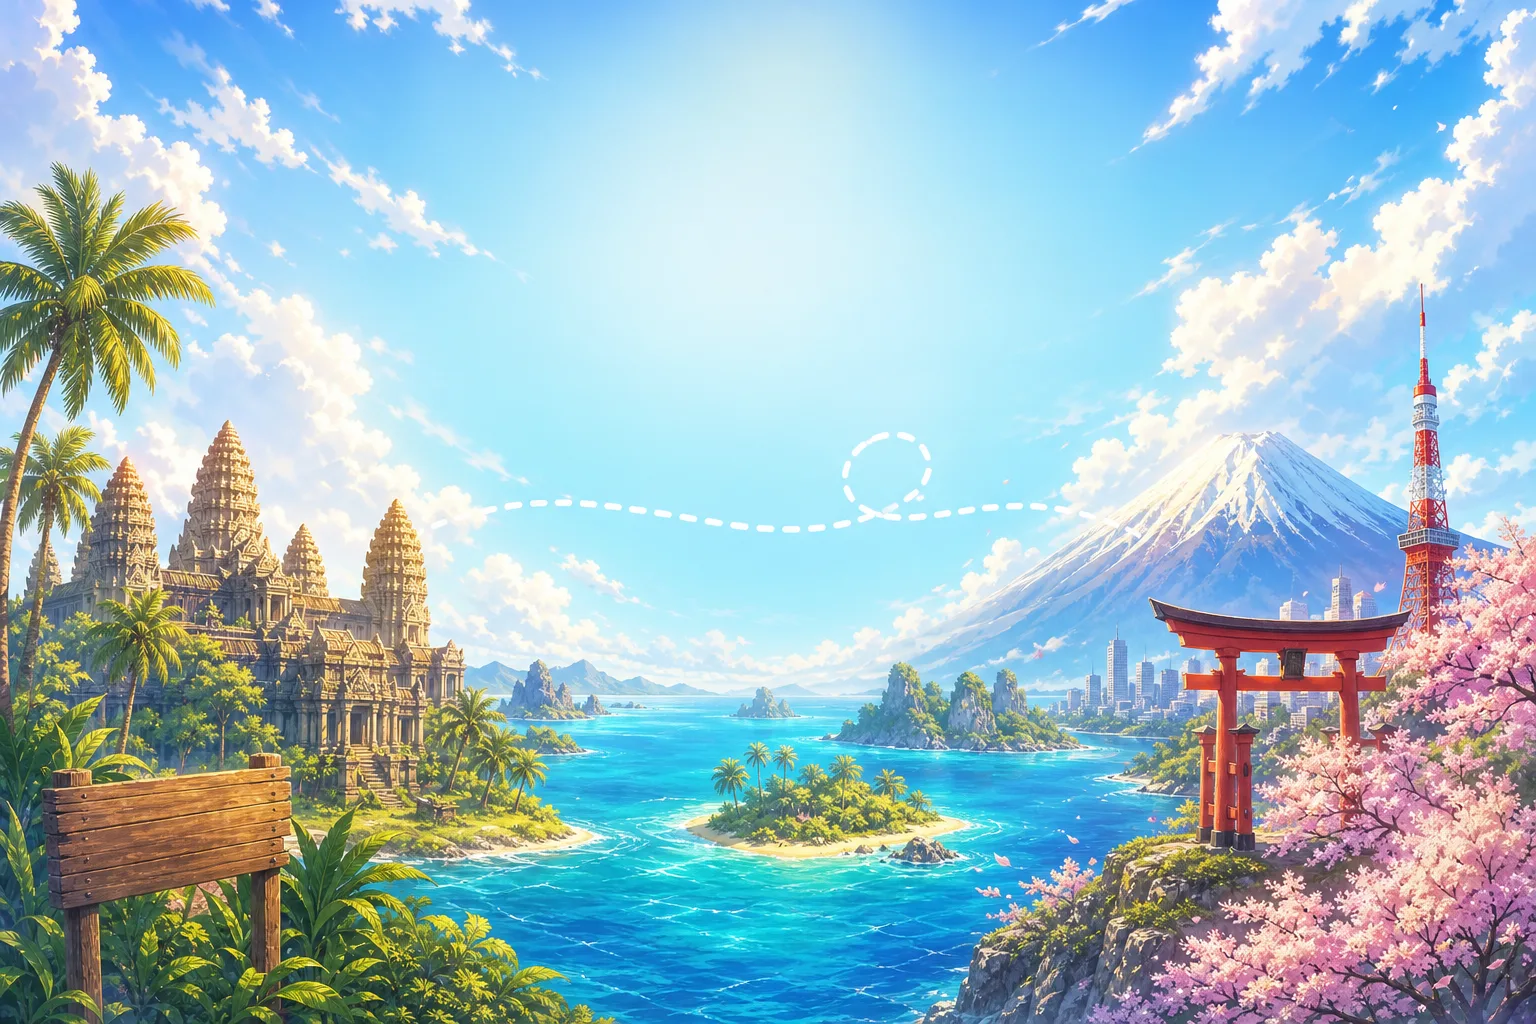
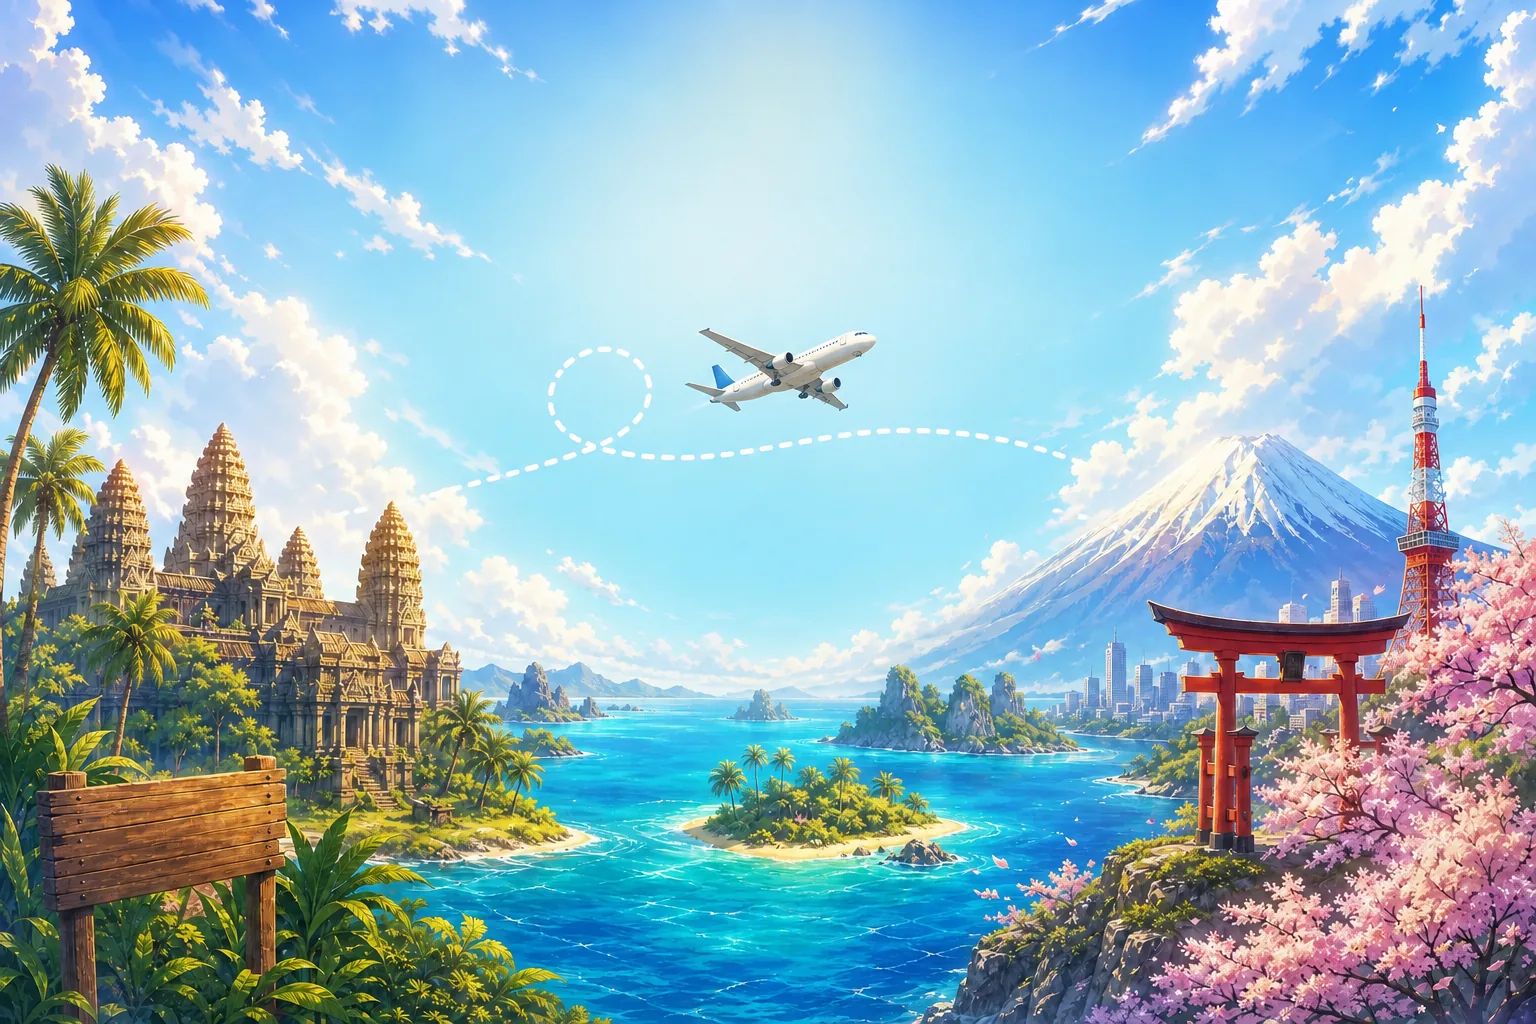
perf: タイトル画面の外部往復をなくす（30人同時で落ちていた）
ログイン必須にした際、**全員が必ず通るタイトル画面**を毎回サーバで描くようにし、
1表示につき Supabase へ3往復していた（ミドルウェアの getUser / ページの getUser /
profiles 照会）。実測で、ログイン状態のタイトルに 60並列 → **60件すべて 503**
（Cloudflare Error 1102 Worker exceeded resource limits）、30並列でも中央値3.7秒。
まもなく30人が同時に使うので直す。

- 認証クッキーが無ければ未ログインは確実。**往復ゼロ**で判定して返す。
  未ログインの表示と締め出しに外部通信を1回も使わなくなる。
- ミドルウェアが確認した結果をヘッダでページへ渡し、**二度目の getUser をやめる**。
  更新されたセッションクッキーは、通す応答にも返す応答にも必ず載せ直す
  （載せ忘れると毎回ログインし直しになる）。
- 「つづきから」の判定は印のクッキーで済ませ、**印が無いときだけ1回**照会する。
  印はマップが読めた時点で付く（診断もなまえも そろっていることを確認した後）。
  別の端末で開いても初回の1回で正しく決まる。

fix: TOPのキーアートを差し替え版（飛行機入り）に戻す

差し替え版がメインの作業フォルダに**未コミットのまま**残っていて、
mainから配るSTG・本番は古い版を出していた。

closes #17
closes #18

diff --git a/src/app/page.tsx b/src/app/page.tsx
@@ -1,4 +1,6 @@
+import { cookies, headers } from "next/headers";
 import { TitleScreen } from "@/components/title-screen";
+import { AUTH_STATE_HEADER, READY_COOKIE } from "@/lib/auth-cookie";
 import { isSupabaseConfigured } from "@/lib/env";
 import { hasLearnerNames } from "@/lib/name";
 import { isDiagnosisComplete } from "@/lib/profile";
@@ -8,7 +10,11 @@ import { createClient } from "@/lib/supabase/server";
  * 最初の画面。**ログインしてはじめて中に入れる**（願い #13）。
  *
  * ログインの画面を別に持たず、タイトル画面のボタンをログインにする。
- * セッションを見るのでキャッシュせず、毎回いまの状態で描く。
+ *
+ * ここは**全員が必ず通る画面**なので、外部への往復を極力しない（願い #17）。
+ *  - ログインずみかは、ミドルウェアが確認した結果をヘッダで受け取る（getUser を二度打たない）
+ *  - 「つづきから」を出すかは、印のクッキーがあればそれで決める。無いときだけ1回だけ照会する
+ *    （照会結果の印はマップ側で付ける。別の端末でも初回の1回で正しく決まる）
  */
 export default async function Home({
   searchParams,
@@ -16,31 +22,30 @@ export default async function Home({
   searchParams: Promise<Record<string, string | string[] | undefined>>;
 }) {
   const params = await searchParams;
-  const supabase = await createClient();
-  const user = supabase ? (await supabase.auth.getUser()).data.user : null;
+  const [headerList, cookieStore] = await Promise.all([headers(), cookies()]);
+  const loggedIn = headerList.get(AUTH_STATE_HEADER) === "1";
 
-  /**
-   * 「つづきから」を出してよいか。**DBを見て決める**。
-   *
-   * 以前はブラウザの localStorage だけで決めていたが、それはこの端末の記憶でしかない。
-   * 別の端末・別のブラウザで開くと、進んでいる人にも「ゲームを始める」が出て、
-   * 押すと診断へ送られる。診断が終わっていて なまえもそろっている人だけ、マップへ通す。
-   */
-  let canContinue = false;
-  if (supabase && user) {
-    const { data: profile } = await supabase
-      .from("profiles")
-      .select("answers, family_name, given_name")
-      .eq("id", user.id)
-      .maybeSingle();
-    canContinue = Boolean(
-      profile &&
-      isDiagnosisComplete(profile.answers) &&
-      hasLearnerNames({
-        familyName: profile.family_name ?? "",
-        givenName: profile.given_name ?? "",
-      }),
-    );
+  let canContinue = loggedIn && cookieStore.get(READY_COOKIE)?.value === "1";
+
+  // 印が無いログイン者だけ、1回だけ調べる（新しい端末で開いた初回など）。
+  if (loggedIn && !canContinue) {
+    const supabase = await createClient();
+    const user = supabase ? (await supabase.auth.getUser()).data.user : null;
+    if (supabase && user) {
+      const { data: profile } = await supabase
+        .from("profiles")
+        .select("answers, family_name, given_name")
+        .eq("id", user.id)
+        .maybeSingle();
+      canContinue = Boolean(
+        profile &&
+        isDiagnosisComplete(profile.answers) &&
+        hasLearnerNames({
+          familyName: profile.family_name ?? "",
+          givenName: profile.given_name ?? "",
+        }),
+      );
+    }
   }
 
   // ミドルウェアが弾いた行き先。外のURLへ飛ばされないよう、自分のサイトの道だけ受ける。
@@ -50,7 +55,7 @@ export default async function Home({
   return (
     <TitleScreen
       authReady={isSupabaseConfigured}
-      loggedIn={Boolean(user)}
+      loggedIn={loggedIn}
       canContinue={canContinue}
       hadAuthError={params.error === "auth"}
       next={next}

diff --git a/src/middleware.ts b/src/middleware.ts
@@ -1,5 +1,6 @@
 import { createServerClient } from "@supabase/ssr";
 import { NextResponse, type NextRequest } from "next/server";
+import { AUTH_STATE_HEADER, hasAuthCookie } from "@/lib/auth-cookie";
 import { getSupabasePublicConfig } from "@/lib/env";
 
 /**
@@ -20,6 +21,10 @@ function isOpenToVisitors(pathname: string): boolean {
  * あわせて OAuth の `?code=` を取りこぼさない。Supabase の Redirect URLs に
  * 未登録の宛先を渡すと Site URL（＝ルート）へ `?code=` 付きで戻されるため、
  * どのページに落ちてもコールバックへ回送する。
+ *
+ * **外部への往復は最小にする**（願い #17）。ログイン必須にした直後、1画面につき
+ * Supabase へ3往復していて、30人が同時に開くと Worker が資源上限に達した
+ * （実測: 60並列で全件 503 / Cloudflare Error 1102）。
  */
 export async function middleware(request: NextRequest) {
   const cfg = getSupabasePublicConfig();
@@ -36,7 +41,29 @@ export async function middleware(request: NextRequest) {
     return NextResponse.redirect(callback);
   }
 
-  let response = NextResponse.next({ request });
+  /** ログインの行き先へ返す（元の行き先を持たせる）。 */
+  function redirectToTitle() {
+    const title = request.nextUrl.clone();
+    title.pathname = "/";
+    title.search = "";
+    title.searchParams.set("next", pathname);
+    return NextResponse.redirect(title);
+  }
+
+  /** 認証結果をページへ渡す。全リクエストで必ず上書きするので、詐称した値は残らない。 */
+  function passThrough(loggedIn: boolean) {
+    const headers = new Headers(request.headers);
+    headers.set(AUTH_STATE_HEADER, loggedIn ? "1" : "0");
+    return NextResponse.next({ request: { headers } });
+  }
+
+  // クッキーが無ければ未ログインは確実。ここで決めれば外部通信は1回も要らない。
+  if (!hasAuthCookie(request.cookies.getAll())) {
+    return isOpenToVisitors(pathname) ? passThrough(false) : redirectToTitle();
+  }
+
+  // 更新されたセッションクッキー。どの応答にも必ず載せ直す（載せ忘れると毎回ログインし直しになる）。
+  let refreshed: { name: string; value: string; options?: Record<string, unknown> }[] = [];
 
   const supabase = createServerClient(cfg.url, cfg.anonKey, {
     cookies: {
@@ -47,10 +74,7 @@ export async function middleware(request: NextRequest) {
         for (const { name, value } of cookiesToSet) {
           request.cookies.set(name, value);
         }
-        response = NextResponse.next({ request });
-        for (const { name, value, options } of cookiesToSet) {
-          response.cookies.set(name, value, options);
-        }
+        refreshed = cookiesToSet;
       },
     },
   });
@@ -59,15 +83,11 @@ export async function middleware(request: NextRequest) {
     data: { user },
   } = await supabase.auth.getUser();
 
-  if (!user && !isOpenToVisitors(pathname)) {
-    const title = request.nextUrl.clone();
-    title.pathname = "/";
-    title.search = "";
-    // ログインのあと、開こうとしていた場所へ戻す。
-    title.searchParams.set("next", pathname);
-    return NextResponse.redirect(title);
+  const response =
+    user || isOpenToVisitors(pathname) ? passThrough(Boolean(user)) : redirectToTitle();
+  for (const { name, value, options } of refreshed) {
+    response.cookies.set(name, value, options);
   }
-
   return response;
 }
 

diff --git a/src/lib/auth-cookie.ts b/src/lib/auth-cookie.ts
@@ -1,0 +1,42 @@
+/**
+ * ログインしているかを「クッキーがあるか」だけで見分ける（願い #17）。
+ *
+ * なぜ要るか: `auth.getUser()` は毎回 Supabase まで往復する。ログイン必須にしたことで
+ * **全リクエストがこの往復を通る**ようになり、30人が同時に開くと Worker が資源上限に達した
+ * （実測: ログイン状態のタイトル画面に60並列 → 60件すべて 503 / Cloudflare Error 1102）。
+ *
+ * クッキーが**無い**なら未ログインは確実なので、往復ゼロで判定してよい。
+ * クッキーが**ある**ときだけ本物の確認をする。期限切れのクッキーで一瞬通っても、
+ * データはRLSが守るので実害はない（画面が出たあと本確認で弾かれるだけ）。
+ */
+
+/** Supabase SSR が置くセッションクッキーの名前（`sb-<ref>-auth-token`・分割時は `.0` などが付く）。 */
+const SUPABASE_AUTH_COOKIE = /^sb-.*-auth-token(\.\d+)?$/;
+
+export function hasAuthCookie(cookies: readonly { name: string }[]): boolean {
+  return cookies.some((cookie) => SUPABASE_AUTH_COOKIE.test(cookie.name));
+}
+
+/**
+ * ミドルウェアが解決した認証結果を、ページへ渡すためのヘッダ。
+ *
+ * これが無いと、1画面につき `getUser()` を2回（ミドルウェアとページで）呼ぶことになる。
+ * ミドルウェアは全リクエストで必ずこの値を**上書き**するので、外から詐称しても効かない。
+ */
+export const AUTH_STATE_HEADER = "x-nexmax-auth";
+
+/**
+ * 「つづきから」を出してよい（診断ずみ＋なまえあり）と分かっている印。
+ *
+ * これがあるとタイトル画面はDB照会を省ける。無いときだけ1回だけ照会する。
+ * 端末ごとの印なので、別の端末では初回に1回照会が走る（それで正しく決まる）。
+ */
+export const READY_COOKIE = "nexmax.ready";
+
+/** ブラウザ側で印を付ける／消す。マップが読めた時点で付け、診断リセットで消す。 */
+export function markReady(ready: boolean): void {
+  if (typeof document === "undefined") return;
+  document.cookie = ready
+    ? `${READY_COOKIE}=1; path=/; max-age=${60 * 60 * 24 * 365}; samesite=lax`
+    : `${READY_COOKIE}=; path=/; max-age=0; samesite=lax`;
+}

diff --git a/src/app/welcome/page.tsx b/src/app/welcome/page.tsx
@@ -1,5 +1,7 @@
+import { headers } from "next/headers";
 import { redirect } from "next/navigation";
 import { WelcomeWizard } from "@/components/welcome-wizard";
+import { AUTH_STATE_HEADER } from "@/lib/auth-cookie";
 import { hasLearnerNames, katakanaOrEmpty, type LearnerNames } from "@/lib/name";
 import { isDiagnosisComplete, type Gender } from "@/lib/profile";
 import { createClient } from "@/lib/supabase/server";
@@ -24,10 +26,13 @@ export default async function WelcomePage({
 }) {
   const retake = (await searchParams)[RETAKE_PARAM] === "1";
   const supabase = await createClient();
-  const user = supabase ? (await supabase.auth.getUser()).data.user : null;
 
   // ログインしてはじめて始められる（願い #13）。未ログインはタイトル画面＝ログインへ返す。
-  // ミドルウェアも同じ判断をするが、ここでも見る（キャッシュや直リンクで素通りさせないため）。
+  // ミドルウェアが確認ずみの結果を先に見て、未ログインなら Supabase へ問い合わせない（願い #17）。
+  const authState = (await headers()).get(AUTH_STATE_HEADER);
+  if (supabase && authState === "0") redirect("/");
+
+  const user = supabase ? (await supabase.auth.getUser()).data.user : null;
   if (supabase && !user) redirect("/");
 
   let saved: { names: LearnerNames; gender: Gender } | null = null;

diff --git a/src/lib/profile.ts b/src/lib/profile.ts
@@ -1,3 +1,4 @@
+import { markReady } from "@/lib/auth-cookie";
 import {
   isPersonalityScores,
   isPersonalityTypeCode,
@@ -82,6 +83,9 @@ export function saveProfile(profile: NexmaxProfile): void {
   }
   removeLegacyProfile();
   storage()?.setItem(PROFILE_KEY, JSON.stringify(profile));
+  // タイトル画面が「つづきから」を出せるように、サーバからも見える印を付ける。
+  // ここを通るのは、診断もなまえも そろっていることを確認した後だけ（願い #17）。
+  markReady(true);
 }
 
 export function getGeminiKey(): string {
@@ -137,6 +141,7 @@ export function saveMapView(view: MapView): void {
  */
 export function clearProfile(): void {
   storage()?.removeItem(PROFILE_KEY);
+  markReady(false);
 }
 
 export function clearNexmaxCache(): void {
@@ -147,4 +152,5 @@ export function clearNexmaxCache(): void {
     const key = target.key(index);
     if (key?.startsWith("nexmax.")) target.removeItem(key);
   }
+  markReady(false);
 }
